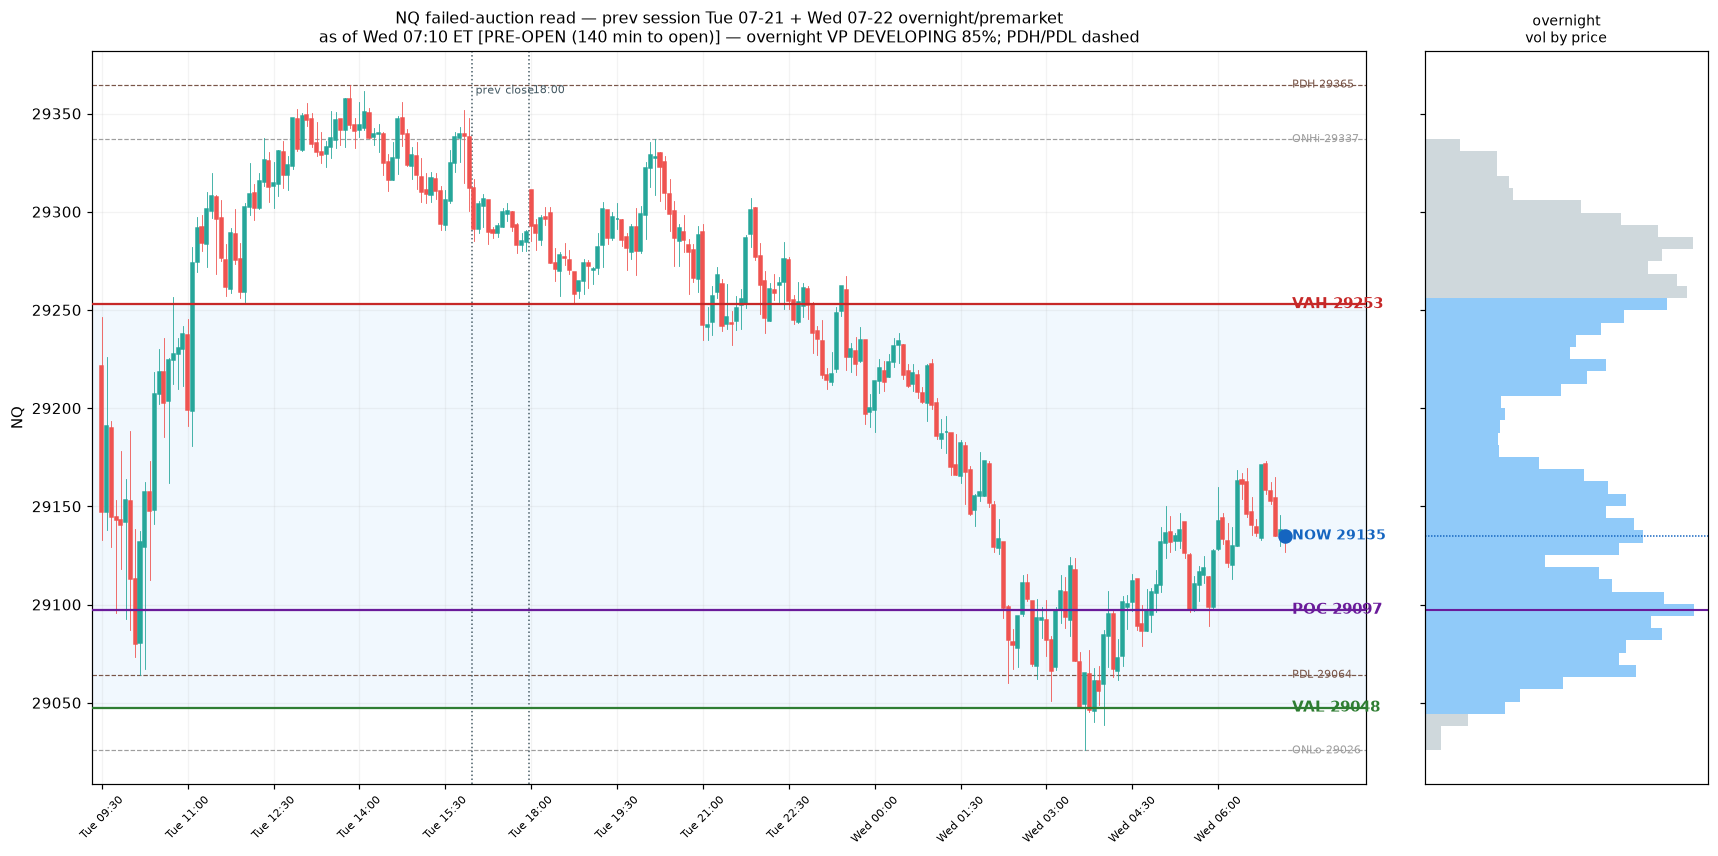
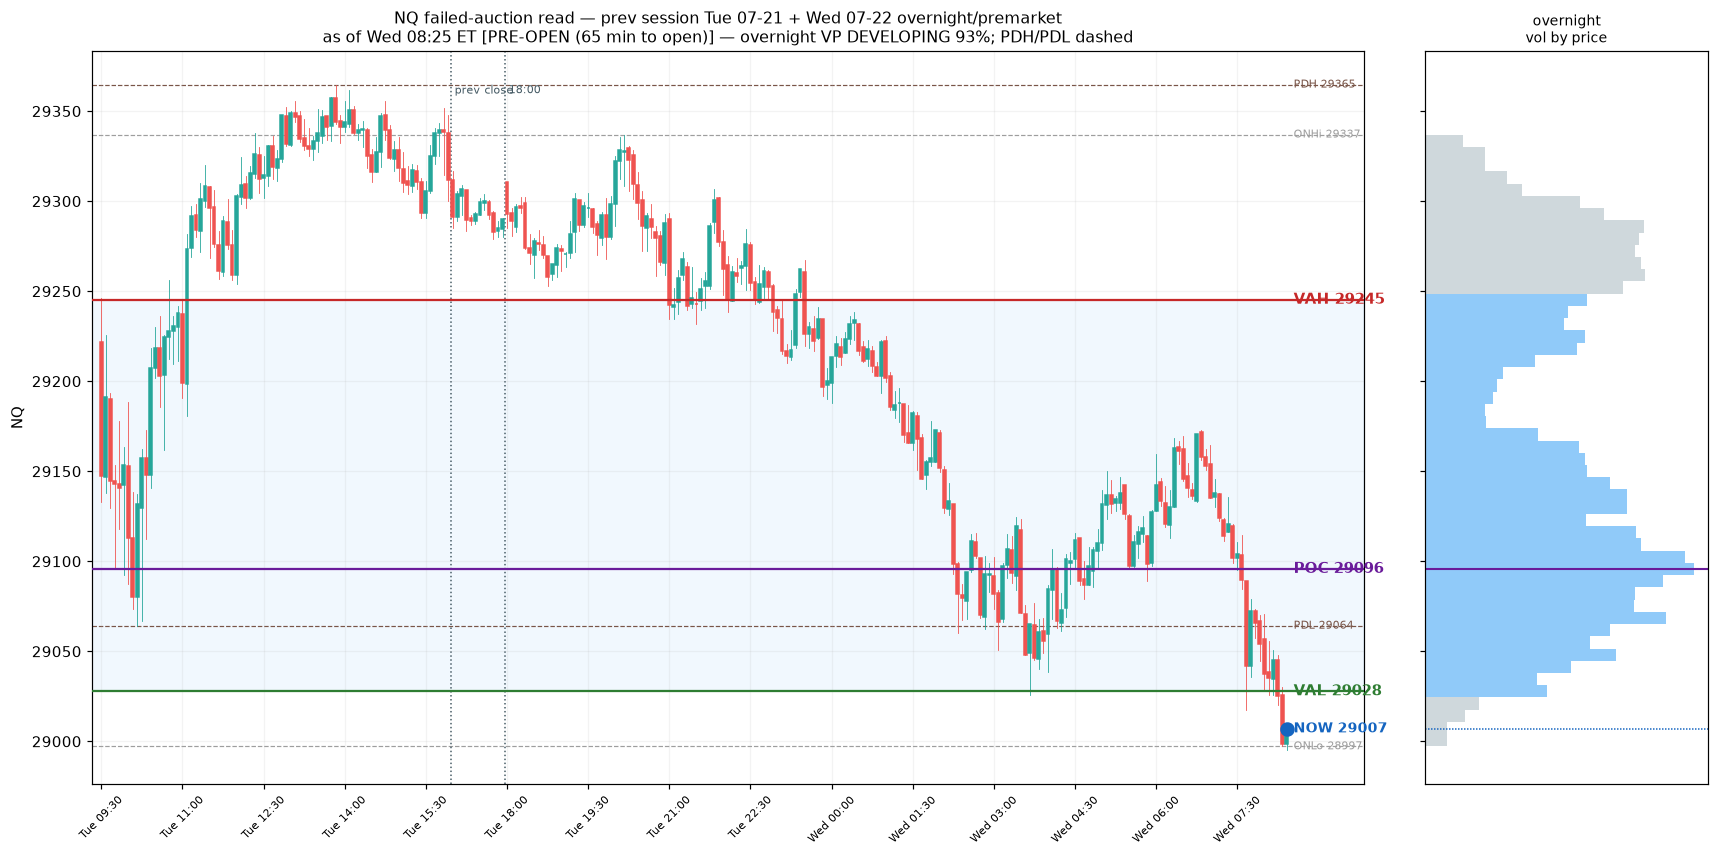
Add Stream 2 multi-day composite level map; re-run both streams
scripts/multiday_levels.py: zooms out from the single-session read to the
larger levels forming over many sessions - composite value area (multi-week
balance), weekly H/L, per-session naked POCs, round numbers - on an expanded
timeline. Built from a ~1-month 30-min ETH cache (nq_30min_eth.json).

Wed 2026-07-22 re-run:
  Stream 1 (Wed 08:25 pre-open): overnight VAH 29245/POC 29096/VAL 29028;
    price 29007 pushed below VAL. Both edges clean geometry.
  Stream 2 (23 sessions Jun22-Jul22): composite cVAH 30056/cPOC 29704/
    cVAL 29256; price 29010 BELOW multi-week value = bearish higher-tf
    structure. Backs the VAH short over the VAL long.

Claude-Session: https://claude.ai/code/session_016aQdjV8pEkud2m7UoLztFR

diff --git a/scripts/multiday_levels.py b/scripts/multiday_levels.py
@@ -1,0 +1,174 @@
+"""Stream 2 - multi-day / multi-week composite level map.
+
+Stream 1 (overnight_setup.py) reads ONE session's overnight value area for the
+intraday failed-auction trade. This stream zooms out: it builds the LARGER
+levels that form over many sessions - the levels a swing decision sits inside.
+
+Same fixed-window discipline as everything else (levels come from the data, not
+from a viewport). Judgement call on span: it composites the last `--sessions`
+RTH days (default: all available in the file) and reports the exact span used.
+
+Built from the 30-min ETH cache (data/nq_30min_eth.json ~ 1 month), so the
+composite is a genuine multi-week balance, not a single night.
+
+Outputs:
+  * composite value area over the whole span:  cVAH / cPOC / cVAL
+  * per-week high/low (this week + prior weeks)
+  * per-session POCs (the stacked daily magnets; untested = 'naked')
+  * round numbers near price
+  * a chart on the expanded timeline with the big levels drawn
+"""
+
+from __future__ import annotations
+
+import argparse
+import json
+import sys
+from pathlib import Path
+from zoneinfo import ZoneInfo
+
+import numpy as np
+import pandas as pd
+import matplotlib
+matplotlib.use("Agg")
+import matplotlib.pyplot as plt
+from matplotlib.patches import Rectangle
+
+ROOT = Path(__file__).resolve().parent.parent
+sys.path.insert(0, str(ROOT))
+from sweeplib.levels import volume_profile, round_numbers, round_step
+
+ET = ZoneInfo("America/New_York")
+
+
+def load(path: Path) -> pd.DataFrame:
+    r = json.loads(path.read_text())
+    df = pd.DataFrame({k: r[k] for k in ("open", "high", "low", "close", "volume")},
+                      index=pd.to_datetime(r["time"], utc=True).tz_convert(ET))
+    return df[~df.index.duplicated(keep="last")].sort_index()
+
+
+def session_of(ts: pd.DatetimeIndex) -> pd.Series:
+    """CME session date: bars from 18:00 ET belong to the next day's session."""
+    d = pd.Series(ts.date, index=ts)
+    ev = ts.hour >= 18
+    d[ev] = (ts[ev] + pd.Timedelta(days=1)).date
+    return pd.to_datetime(d.values)
+
+
+def run(path: Path, sessions: int | None, bins: int) -> None:
+    df = load(path)
+    df["session"] = session_of(df.index)
+    all_sessions = sorted(df["session"].unique())
+    use = all_sessions if not sessions else all_sessions[-sessions:]
+    span = df[df["session"].isin(use)]
+    cur_px = float(df["close"].iloc[-1])
+    now = df.index[-1]
+
+    # composite value area over the whole span
+    cpoc, cvah, cval = volume_profile(span, bins)
+    hi, lo = span["high"].max(), span["low"].min()
+
+    print(f"=== NQ multi-day composite  |  as of {now:%a %Y-%m-%d %H:%M} ET ===")
+    print(f"span: {len(use)} sessions {pd.Timestamp(use[0]).date()} -> {pd.Timestamp(use[-1]).date()} "
+          f"({len(span)} bars @ {int((span.index[1]-span.index[0]).total_seconds()/60)}min)")
+    print(f"COMPOSITE value area (multi-week balance):")
+    print(f"  span High {hi:.0f} | cVAH {cvah:.0f} | cPOC {cpoc:.0f} | cVAL {cval:.0f} | span Low {lo:.0f}")
+    loc = "ABOVE cVAH" if cur_px > cvah else "BELOW cVAL" if cur_px < cval else "INSIDE composite value"
+    print(f"  now {cur_px:.0f} [{loc}]  to cVAH {cvah-cur_px:+.0f}  cPOC {cpoc-cur_px:+.0f}  cVAL {cval-cur_px:+.0f}")
+
+    # weekly high/low
+    span = span.copy()
+    iso = span.index.isocalendar()
+    span["wk"] = iso["year"].astype(str) + "-W" + iso["week"].astype(str).str.zfill(2)
+    print("weekly high/low:")
+    weeks = list(dict.fromkeys(span["wk"]))
+    wk_levels = {}
+    for wk in weeks[-4:]:
+        g = span[span["wk"] == wk]
+        tag = "THIS week" if wk == weeks[-1] else ("prior week" if wk == weeks[-2] else "")
+        wk_levels[wk] = (g["high"].max(), g["low"].min())
+        print(f"  {wk} {tag:11s}: H {g['high'].max():.0f}  L {g['low'].min():.0f}")
+
+    # per-session POCs (daily magnets) + naked test
+    print("per-session POC (daily magnet; 'naked' = not revisited since):")
+    pocs = []
+    for d in use[-8:]:
+        g = span[span["session"] == d]
+        if len(g) < 3:
+            continue
+        p, _, _ = volume_profile(g, 30)
+        later = span[span["session"] > d]
+        naked = not (((later["low"] <= p) & (later["high"] >= p)).any())
+        pocs.append((pd.Timestamp(d).date(), p, naked))
+        print(f"  {pd.Timestamp(d).date()}: POC {p:.0f}{'  <- NAKED (untested magnet)' if naked else ''}")
+
+    rn = round_numbers(cur_px, round_step(cur_px))
+    print(f"round numbers near price: {', '.join(f'{x:.0f}' for x in rn)}")
+
+    _chart(df, span, use, cpoc, cvah, cval, hi, lo, wk_levels, pocs, cur_px, now, bins)
+
+
+def _chart(df, span, use, cpoc, cvah, cval, hi, lo, wk_levels, pocs, cur_px, now, bins):
+    plot = span
+    fig, (axp, axv) = plt.subplots(1, 2, figsize=(17, 8),
+                                   gridspec_kw={"width_ratios": [5, 1]}, sharey=True)
+    for i, (ts, r) in enumerate(plot.iterrows()):
+        up = r["close"] >= r["open"]; c = "#26a69a" if up else "#ef5350"
+        axp.plot([i, i], [r["low"], r["high"]], color=c, lw=0.5, zorder=2)
+        axp.add_patch(Rectangle((i-0.3, min(r["open"], r["close"])), 0.6,
+                                abs(r["close"]-r["open"]) + 0.2, facecolor=c, edgecolor=c, zorder=3))
+    axp.axhspan(cval, cvah, color="#ab47bc", alpha=0.10, zorder=0)
+    for lv, lab, col in [(cvah, "cVAH %.0f" % cvah, "#6a1b9a"), (cpoc, "cPOC %.0f" % cpoc, "#4a148c"),
+                         (cval, "cVAL %.0f" % cval, "#6a1b9a")]:
+        axp.axhline(lv, color=col, lw=2, zorder=5)
+        axp.text(len(plot)+0.5, lv, lab, color=col, va="center", fontsize=10, fontweight="bold")
+    # weekly H/L
+    for wk, (h, l) in list(wk_levels.items())[-2:]:
+        for lv in (h, l):
+            axp.axhline(lv, color="#00838f", lw=0.8, ls="--", zorder=1)
+        axp.text(len(plot)+0.5, h, f"{wk[-3:]}H {h:.0f}", color="#00838f", va="center", fontsize=7)
+        axp.text(len(plot)+0.5, l, f"{wk[-3:]}L {l:.0f}", color="#00838f", va="center", fontsize=7)
+    # naked POCs
+    for d, p, naked in pocs:
+        if naked:
+            axp.axhline(p, color="#ef6c00", lw=0.8, ls=(0, (2, 2)), zorder=1)
+            axp.text(0, p, f"nPOC {p:.0f}", color="#ef6c00", va="center", fontsize=6.5)
+    # session dividers (RTH open marks)
+    prev_s = None
+    for i, ts in enumerate(plot.index):
+        s = plot["session"].iloc[i]
+        if s != prev_s:
+            axp.axvline(i-0.5, color="#cfd8dc", lw=0.5, zorder=0)
+            prev_s = s
+    axp.scatter([len(plot)-1], [cur_px], marker="o", s=70, color="#1565c0", zorder=6)
+    axp.text(len(plot)+0.5, cur_px, "NOW %.0f" % cur_px, color="#1565c0", va="center", fontsize=9, fontweight="bold")
+    axp.set_title(f"NQ multi-day composite — {len(use)} sessions "
+                  f"{pd.Timestamp(use[0]).date()} → {pd.Timestamp(use[-1]).date()}  (as of {now:%a %H:%M} ET)\n"
+                  f"bold purple = composite value area (multi-week balance); teal dashed = weekly H/L; "
+                  f"orange dotted = naked POCs", fontsize=10.5)
+    tk = list(range(0, len(plot), max(1, len(plot)//14)))
+    axp.set_xticks(tk); axp.set_xticklabels([plot.index[i].strftime("%m-%d") for i in tk], rotation=45, fontsize=7.5)
+    axp.set_ylabel("NQ"); axp.set_xlim(-2, len(plot)+18); axp.grid(alpha=0.12)
+    # composite VP side panel
+    edges = np.linspace(lo, hi, bins+1); centers = (edges[:-1]+edges[1:])/2; vol = np.zeros(bins)
+    for low, high, v in zip(span["low"], span["high"], span["volume"]):
+        a = max(0, int(np.searchsorted(edges, low, "right"))-1)
+        b = min(bins-1, int(np.searchsorted(edges, high, "right"))-1); vol[a:b+1] += v/(b-a+1)
+    cols = ["#ce93d8" if cval <= c <= cvah else "#e0e0e0" for c in centers]
+    axv.barh(centers, vol, height=(hi-lo)/bins, color=cols)
+    axv.axhline(cpoc, color="#4a148c", lw=1.6); axv.axhline(cur_px, color="#1565c0", lw=1, ls=(0, (1, 1)))
+    axv.set_title("composite\nvol by price", fontsize=9); axv.set_xticks([])
+    plt.tight_layout()
+    out = ROOT / "reports" / "img" / "nq_multiday_levels.png"
+    plt.savefig(out, dpi=108, bbox_inches="tight")
+    print(f"chart -> {out}")
+
+
+if __name__ == "__main__":
+    ap = argparse.ArgumentParser()
+    ap.add_argument("--file", default=str(ROOT / "data" / "nq_30min_eth.json"))
+    ap.add_argument("--sessions", type=int, default=0, help="0 = all available")
+    ap.add_argument("--bins", type=int, default=80)
+    a = ap.parse_args()
+    run(Path(a.file), a.sessions or None, a.bins)
